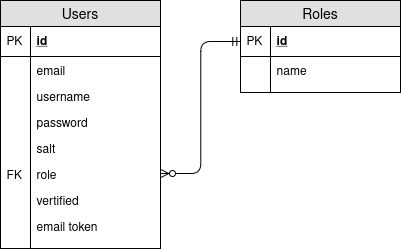
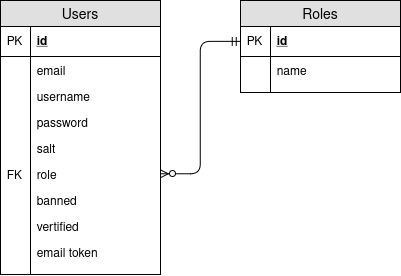
Add use case diagrams and alter requirements

diff --git a/docs/requirements.md b/docs/requirements.md
@@ -13,24 +13,24 @@ lang: en-US
 
 - Sign up/login
 - Create topics
-- Post replies and new messages
+- Post threads and comments
 
 - Visitors and logged in users into user groups
 - Privileges and rights are given based on these groups
 
 # Function requirements
 
-## Post hierarchy
+## Forum hierarchy
 
 - Category (made by moderator or higher)
     - Thread (made by users or higher)
-        - Messages and replies (made by users or higher)
+        - Comments (made by users or higher)
 
-## Post handling
+## Comment handling
 
-- Replies should refer to the post they answered
+- Comments should refer to the post they answered
 - Can create hierartical views of answers to organize a thread or show a linear thread based on arrival of answer
-- Replies to hidden messages are still shown
+- Comments to hidden comments are still shown
 
 ## Usergroups
 
@@ -40,18 +40,19 @@ _Higher level usergroups have all the privileges of the lower usergroups_
 
 - Admin
     - administrate usergroups
-    - hide categories/threads/messages[^delmsg]
+    - hide categories/threads/comments[^delmsg]
 - Moderator
-    - hide messages
+    - hide comments
     - add/alter categories
+    - ban/unban users
 - User
-    - create threads/messages
-    - change your own threads/messages
-    - hide your own threads/messages
+    - create threads/comments
+    - change your own threads/comments
+    - hide your own threads/comments
 - Visitors
-    - view categories/threads/messages
+    - view/search categories/threads/comments
 
-[^delmsg]: should not directly delete the messages to prevent vulnerabilities to cause the ability to delete parts of the database.
+[^delmsg]: should not directly delete the comments to prevent vulnerabilities to cause the ability to delete parts of the database.
 
 ## DFD-diagram
 
@@ -64,7 +65,7 @@ _Higher level usergroups have all the privileges of the lower usergroups_
 - Encrypted communication with the server (HTTPS)
 - Simple input validation to ease the load on server
 - Login and registration form
-- Display categories/threads/messages
+- Display categories/threads/comments
 
 ### Security gate
 
@@ -96,23 +97,26 @@ _Higher level usergroups have all the privileges of the lower usergroups_
 
 # Security requirements
 
-- Vertification of user
+- Verification of user
     - user, visitor, moderator
 - Input validation
     - reject invalid requests
 - Logging activities
     - should prevent non-repudiation
-- Password vertification
+- Password verification
     - minimum 6 characters
     - big and small letters and numbers
     - use both salt and pepper next to the password in the hashing
+    - lock after N failed attempts
+- Raise password protection awareness
+    - "Admin/Moderator will never ask for your password"
 
 ## Use cases
 
 The system allows:
 
 - users to login to be authenticated
-- users to create threads and messages
+- users to create threads and comments
 - moderators to create/alter categories
 - admins to change the usergroup of a user
 
@@ -121,7 +125,7 @@ The system allows:
 An attacker tries to:
 
 - gain extra privileges in the system
-- post/delete messages/threads on behalf of another user
+- post/delete comments/threads on behalf of another user
 - perform a DoS attack on the server
 - fill the forum with random data
 

diff --git a/docs/schemas.md b/docs/schemas.md
@@ -1,0 +1,17 @@
+---
+title: Use and abuse case diagrams
+subject: imt3501
+institute: Norwegian University of Science and Technology
+lang: en-US
+---
+
+# Use case diagram
+
+![Use case diagram](assets/use-cases.png)
+
+# Abuse case diagrams
+
+![Abuse case diagram - password](assets/abuse-case-password.png)
+![Abuse case diagram - disruption](assets/abuse-case-disrupt.png)
+![Abuse case diagram - injection](assets/abuse-case-input.png)
+
